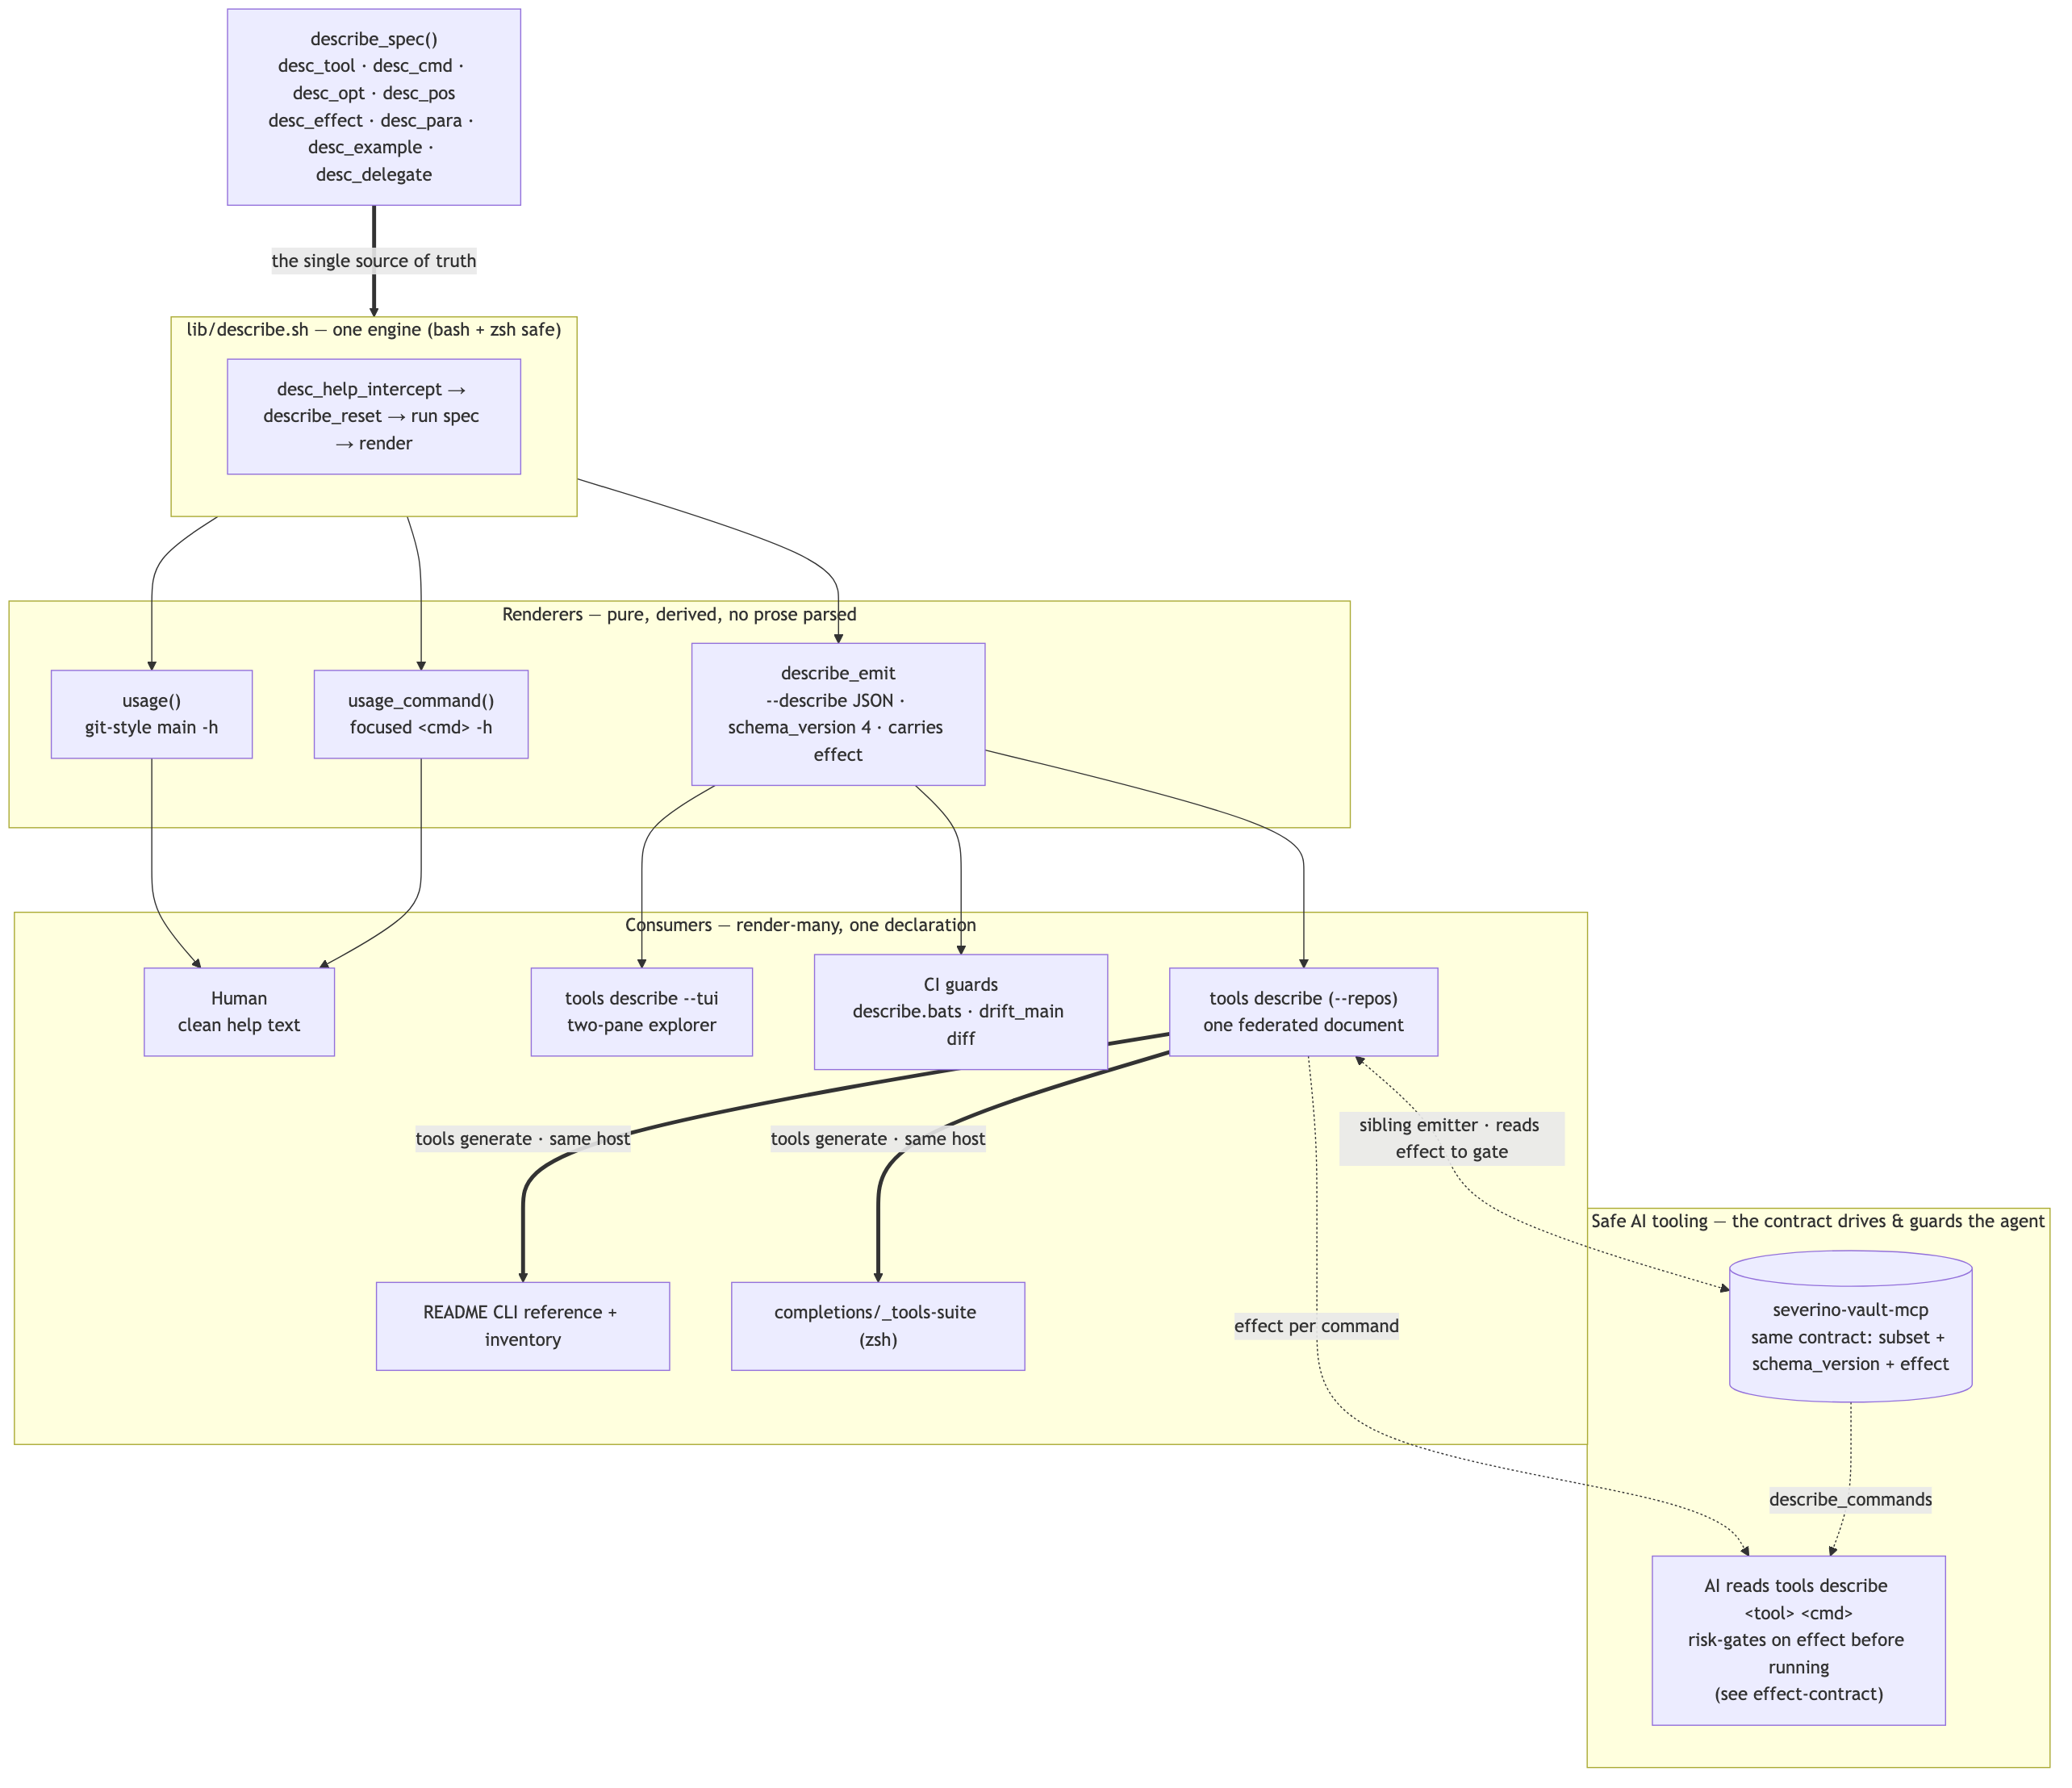
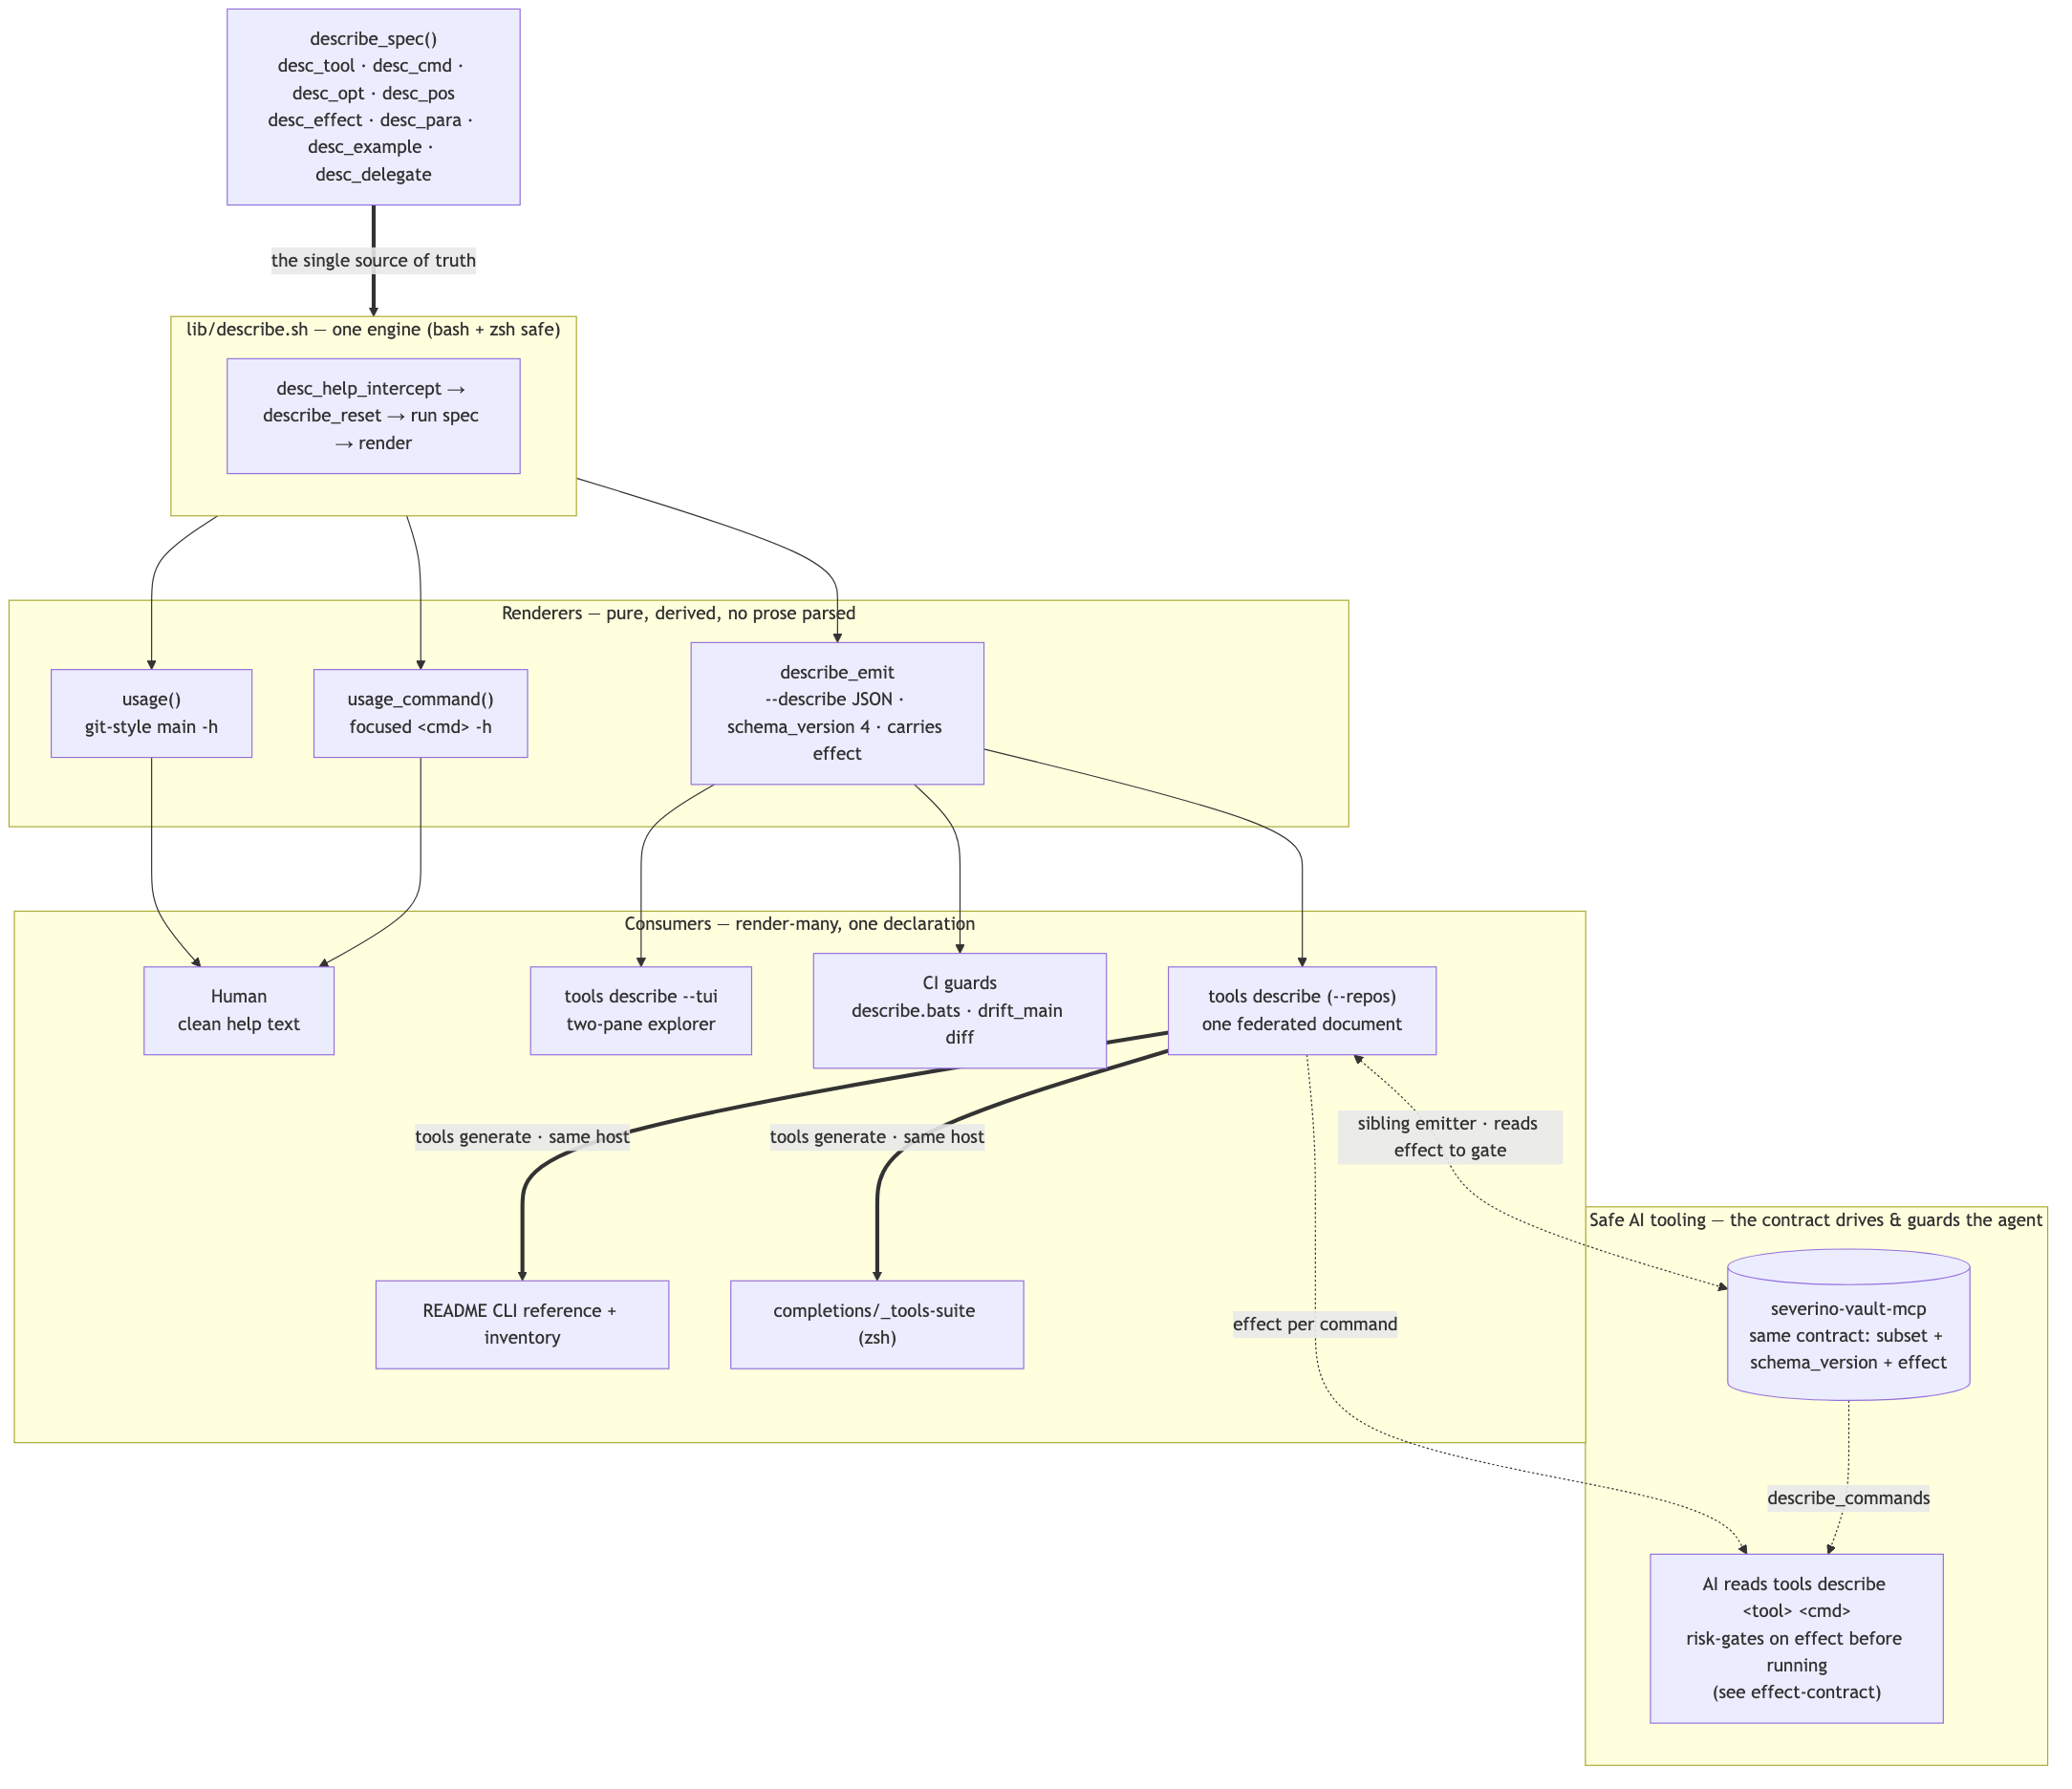
Add centralized Mermaid diagram renderer

diff --git a/README.md b/README.md
@@ -61,6 +61,7 @@ tools/
     # Authoring
     remember    # Write a Claude memory file + MEMORY.md index entry in one shot.
     doc-to-pdf  # Render a Markdown file (with Mermaid) to PDF via the system Chrome, offline.
+    diagram     # Render Mermaid .mmd sources to neighboring PNG files.
   .github/               # CI workflows and repository automation
   archive/               # retired scripts kept for reference
   bench/                 # measured claims asserted in CI
@@ -577,6 +578,29 @@ Usage: `doc-to-pdf <input.md> [output.pdf]`
 | `[output.pdf]` | Output path (default: <input>.pdf beside the input). |
 
 Effect: `local_write`
+
+#### `diagram`
+
+Render Mermaid .mmd sources to neighboring PNG files.
+
+Each path may be an .mmd file or a directory. Directories render their top-level .mmd files.
+
+Rendering uses Mermaid CLI 11.15.0 with the toolchain's established settings: PNG output, 1100px width, 2x scale, and a white background.
+
+Usage: `diagram <path>...`
+
+| Argument | Description |
+|---|---|
+| `<path>...` | Mermaid source file or directory |
+
+Effect: `local_write + network`
+
+**Examples**
+
+```sh
+diagram docs/diagrams/
+diagram docs/diagrams/architecture.mmd
+```
 <!-- END GENERATED CLI REFERENCE -->
 
 ### tools

diff --git a/docs/command-surface-contract.md b/docs/command-surface-contract.md
@@ -189,7 +189,7 @@ before it runs anything, instead of guessing from flags or reading handlers.
 
 ## Re-rendering the diagrams
 
-The `.mmd` sources in `docs/diagrams/` render to committed PNGs via
-`docs/diagrams/render.sh` (pre-rendered because GitHub's live mermaid clips node
-text in Safari). Same renderer as the canonical one in Joe's profile repo:
-<https://github.com/joeseverino/joeseverino/blob/main/diagrams/render.sh>.
+The `.mmd` sources in `docs/diagrams/` render to committed PNGs with
+`diagram docs/diagrams/` (pre-rendered because GitHub's live Mermaid clips node
+text in Safari). The renderer is the Cordon-conformant `diagram` command in this
+toolchain.